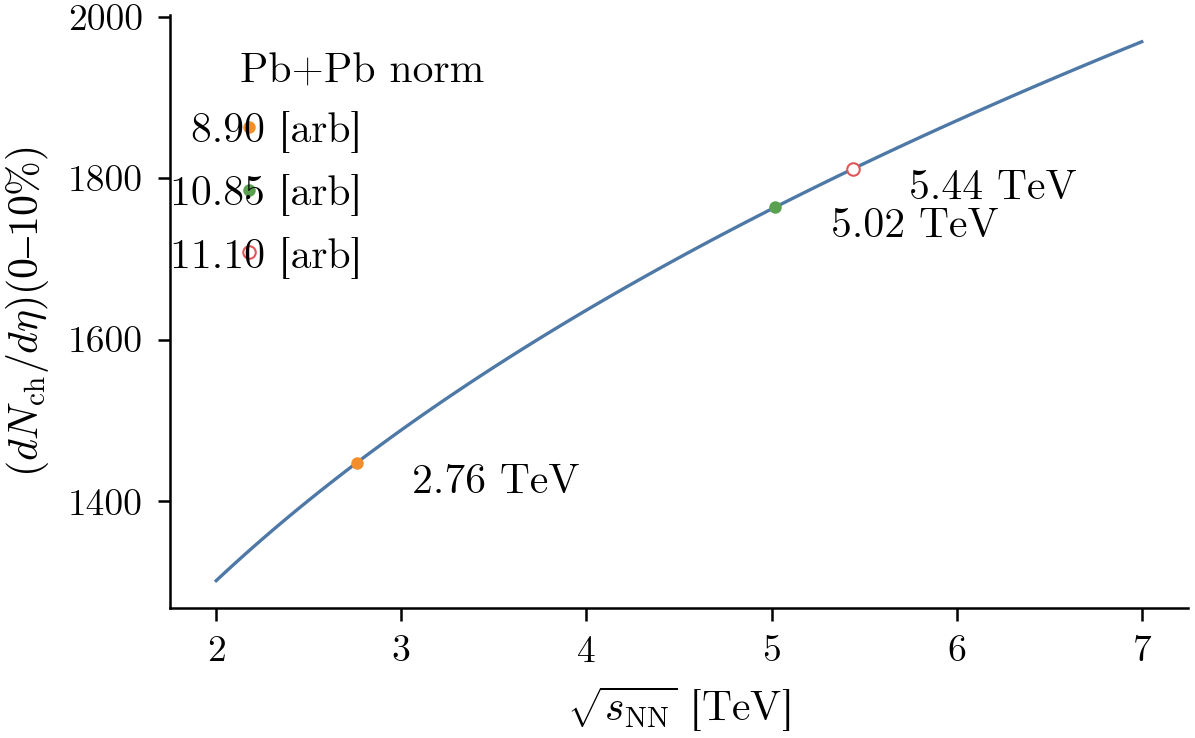
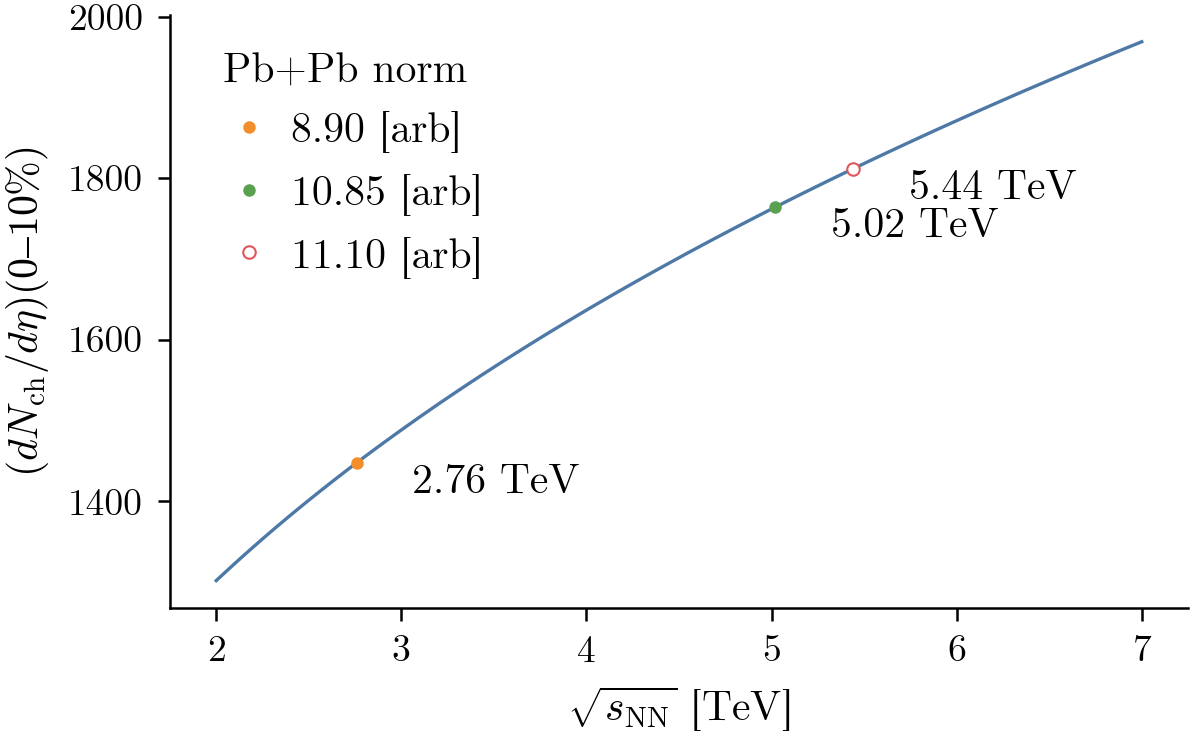
Fix entropy norm figure

Changed region(s): [[0.1238, 0.1558, 0.4025, 0.2805], [0.1858, 0.0623, 0.4025, 0.1247], [0.1548, 0.3117, 0.4025, 0.374]]

diff --git a/src/plots.py b/src/plots.py
@@ -563,11 +563,12 @@ def entropy_norm():
     plt.xlabel(r'$\sqrt{s_\mathrm{NN}}$ [TeV]')
     plt.ylabel(r'$(dN_\mathrm{ch}/d\eta)(0–10\%)$')
 
-    legend = plt.legend(handles, labels, title='Pb+Pb norm')
+    plt.legend(handles, labels, title='Pb+Pb norm', handletextpad=0)
 
-    for t in legend.get_texts():
-        t.set_ha('right')
-        t.set_position((38, 0))
+
+    #for t in legend.get_texts():
+    #    t.set_ha('right')
+    #    t.set_position((38, 0))
 
     set_tight(fig)
 
